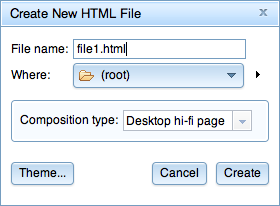
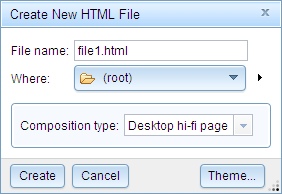
"Tutorial - Introducing the Page Editor" - Corrected typos and added new versions of some screenshots.

diff --git a/maqetta.core.client/WebContent/docs/tutorials/Introducing_the_Page_Editor.html b/maqetta.core.client/WebContent/docs/tutorials/Introducing_the_Page_Editor.html
@@ -151,8 +151,8 @@ grow to show the contents of your workspace:</p>
 </div>
 
 <p>Note that a <strong>New Folder...</strong> button appears. This allows you to create folders from the New HTML File dialog.</p>
-<p>Finally, notice the <strong>Theme...</strong> button at the lower-left. This button brings up the <strong>Select theme...</strong> dialog
-in case you would like the page editor to open using particular CSS theme(s). This is a more advanced feature that we won't 
+<p>Finally, notice the <strong>Theme...</strong> button at the lower-right. This button brings up the <strong>Select theme...</strong> dialog
+in case you would like the page editor to open particular CSS theme(s). This is a more advanced feature that we won't 
 be covering in this tutorial.</p>
 
 <a name="newfile"><h2>Creating a new HTML page in the page editor (desktop hi-fi page)</h2></a>
@@ -187,7 +187,7 @@ and are using <em>flow layout</em>.</div>
 <a name="newfile"><h2>Creating a new HTML page in the page editor (desktop hi-fi sketch)</h2></a>
 
 <ol>
-<li>Bring up the <b>New &gt; HTML File...</b> dialog agin. The <b>New HTML File</b> dialog will be displayed with a default filename.
+<li>Bring up the <b>New &gt; HTML File...</b> dialog again. The <b>New HTML File</b> dialog will be displayed with a default filename.
 </li> 
 <li>Set Composition Type to "Desktop hi-fi sketch". (The second option.)</li>
 <li>Click the <b>Create</b> button to create a new file with the default filename.</li>
@@ -200,7 +200,7 @@ and are using <em>flow layout</em>.</div>
 </div>
 <div class='note'>Note that the TextBox and Buttons have final-form visual styling (using the "claro" theme from Dojo)
 but are positioned at absolute locations on the page. (Your screen probably looks much different than this snapshot
-because you probably dropped the widgets at different locations that what is shown here.)</div>
+because you probably dropped the widgets at different locations than what is shown here.)</div>
 </li>
 <div class='note'>As you dragged the Buttons onto the page, you might have noticed magenta-colored
 horizontal and vertical lines appear and disappear. These are "snap lines" that help you align
@@ -214,7 +214,7 @@ widgets to one another. Snap lines only work for widgets that are positioned on 
 <a name="newfile"><h2>Creating a new HTML page in the page editor (desktop lo-fi sketch)</h2></a>
 
 <ol>
-<li>Bring up the <b>New &gt; HTML File...</b> dialog agin. The <b>New HTML File</b> dialog will be displayed with a default filename.
+<li>Bring up the <b>New &gt; HTML File...</b> dialog again. The <b>New HTML File</b> dialog will be displayed with a default filename.
 </li> 
 <li>Set Composition Type to "Desktop lo-fi sketch". (The fourth option.)</li>
 <li>Click the <b>Create</b> button to create a new file with the default filename.</li>
@@ -295,7 +295,7 @@ such as Button, ComboBox, DataGrid, Tree, &lt;label&gt;, &lt;a&gt; and &lt;h1&gt
 <li>From the <b>Files</b> palette, drag and drop the &quot;SampleBanner.jpg&quot; file onto the page canvas.</li>
 </ol>
 <p class="note">To add your own images, right-click (ctrl-click on the Mac) on the 
-<b>Files</b> palette to bring up the context menu, and select <b>Upload File</b>. 
+<b>Files</b> palette to bring up the context menu, and select <b>Upload files...</b>. 
 Uploaded files are displayed in the Files palette where you can drag and drop them onto the canvas
 or reference them from 'background-image' properties.</p>
 
@@ -336,11 +336,11 @@ or reference them from 'background-image' properties.</p>
 	within the existing "flow" of widgets.</li>
 <li>On the Outline palette, drag the widget to a new location within the Outline palette. (The Outline palette allows widgets to be moved into any position in the widget hierarchy.)</li>
 </ul></li>
-<li>In <em>absolute layout</em>, you can also drag widgets to different location by click-selecting the widget and then dragging on
+<li>In <em>absolute layout</em>, you can also drag widgets to different locations by click-selecting the widget and then dragging on
 the widget's interior. However, the effect of rearranging absolutely positioned widgets
 within the Outline palette is more complex:
 <ul>
-<li>Widgets may or not not move to different physical locations on the canvas if they are moved to a different location
+<li>Widgets may or not move to different physical locations on the canvas if they are moved to a different location
 in the Outline palette.</li>
 <li>Moving widgets in the Outline palette will alter drawing order, and 
 therefore might cause one widget to draw behind or in front of other widgets.</li>
@@ -378,9 +378,9 @@ affect how some CSS properties are inherited, and therefore might affect the vis
 <li>Select one of the widgets in the Page Editor canvas.</li>
 <li>Delete the widget in one of the following ways:
 <ul>
-<li>Click on the <b>delete</b> <img class="inline" src="img/delete_icon.png" /> icon on the page editor toolbar.</li>
+<li>Click on the <b>Delete</b> <img class="inline" src="img/delete_icon.png" /> icon on the page editor toolbar.</li>
 <li>Hit the <b>Delete</b> key on your keyboard (for Windows only - currently not working on the Mac).
-<li>Bring up the widget's context menu (right-click on Windows / ctrl-click on Mac) and choose <b>delete</b>.</li>
+<li>Bring up the widget's context menu (right-click on Windows / ctrl-click on Mac) and choose <b>Delete</b>.</li>
 </ul></li>
 </ol>
 
@@ -388,7 +388,7 @@ affect how some CSS properties are inherited, and therefore might affect the vis
 <li>You can also delete a widget from the Outline palette:
 <ol>
 <li>Select the widget in the Outline palette</li>
-<li>Bring up the widget's context menu (right-click on Windows / ctrl-click on Mac) and choose <b>delete</b>.</li>
+<li>Bring up the widget's context menu (right-click on Windows / ctrl-click on Mac) and choose <b>Delete</b>.</li>
 </ol></li>
 </ul>
 
@@ -396,10 +396,10 @@ affect how some CSS properties are inherited, and therefore might affect the vis
 
 <p>Click on the <b>Save</b> <img class="inline" src="img/save_icon.png" /> icon on the page editor toolbar to save the current HTML file.</p>
 
-<h3>Saving with <b>Save as</b></h3>
-<p>Use <b>Save as</b> to save the file under a different file name:</p>
+<h3>Saving with <b>Save As</b></h3>
+<p>Use <b>Save As</b> to save the file under a different file name:</p>
 <ol>
-<li>Click on the <b>Save as</b> <img class="inline" src="img/Maqetta-toolbar-saveas.png" /> icon on the page editor toolbar.</li>
+<li>Click on the <b>Save As</b> <img class="inline" src="img/Maqetta-toolbar-saveas.png" /> icon on the page editor toolbar.</li>
 <li>A dialog window will pop up with the directory list from your user workspace folder (which is also displayed in the Files palette).</li>
 <li><b>File name:</b> - enter a new file name or select an existing file from the list (using an existng filename will overwrite the existing file).</li>
 <li><b>Where:</b> - the current folder into which the file can be saved. To the right of the Where dropdown menu is a right-pointing arrow that, when clicked,
@@ -411,7 +411,7 @@ affect how some CSS properties are inherited, and therefore might affect the vis
 <p>There are two ways to open an existing file:</p>
 <ol>
 <li>Find the file in the <b>Files</b> palette and double-click on it.</li>
-<li>Select <b>Open > Open File...</b> from the Maqetta menu bar. A dialog window will pop up allowing you to select the file to open.</li>
+<li>Select <b>Open > File...</b> from the Maqetta menu bar. A dialog window will pop up allowing you to select the file to open.</li>
 </ol>
 <br />
 <p class="prevnext"><a href="tutorials/tutorials.html">Previous</a> / <a href="tutorials/Sketching.html">Next</a></p>
